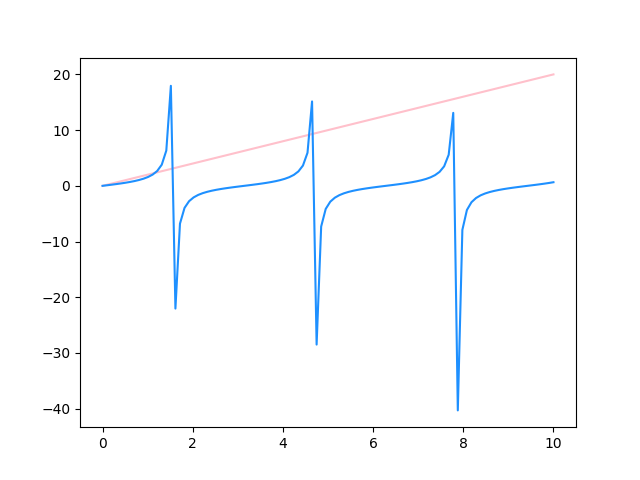
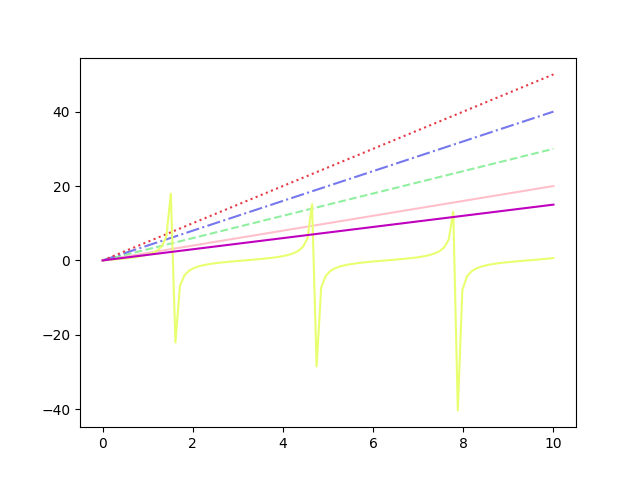
added more lines

diff --git a/lineplot.py b/lineplot.py
@@ -28,5 +28,13 @@ ax = plt.axes() # NOTE: axes is a bounding box with ticks, grids, and labels
 
 # Plot a funciton on the Axes object instance
 ax.plot(x_vals, 2*(x_vals), color = 'pink')
-ax.plot(x_vals, np.tan(x_vals), color = 'dodgerblue')
+ax.plot(x_vals, 3*(x_vals), color ='#91EF9F', linestyle='dashed')
+ax.plot(x_vals, 4*(x_vals), color = '#7678ed', linestyle='dashdot')
+ax.plot(x_vals, 5*(x_vals), color ='#e63946', linestyle='dotted')
+ax.plot(x_vals, np.tan(x_vals), color = '#e9ff70')
+
+# You can use shortcut to define color & style
+ax.plot(x_vals, 1.5*(x_vals), '-m')
+
 fig.savefig('lineplot2.png')
+
